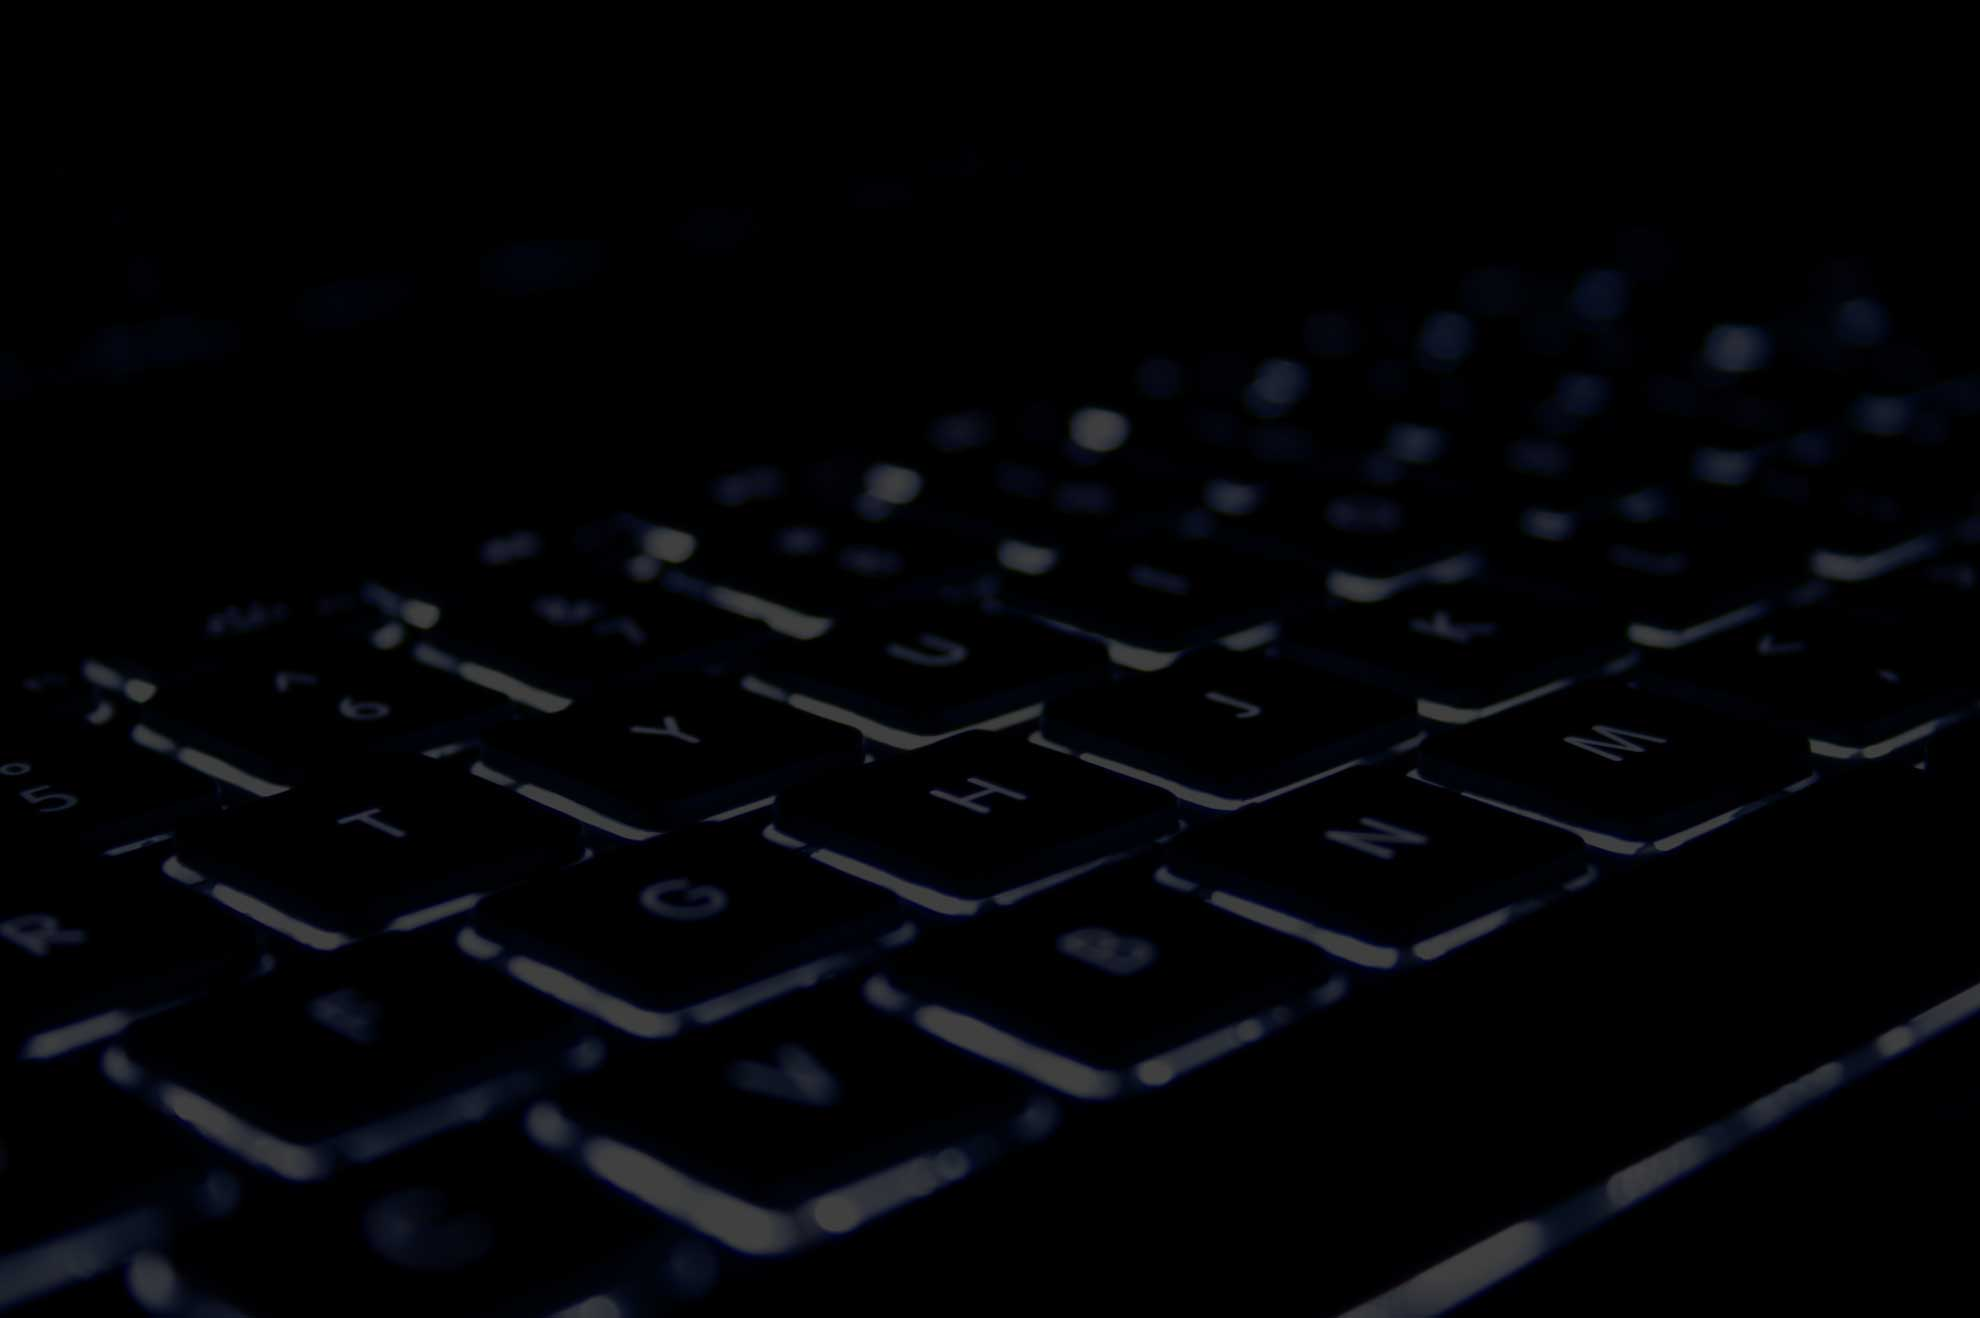
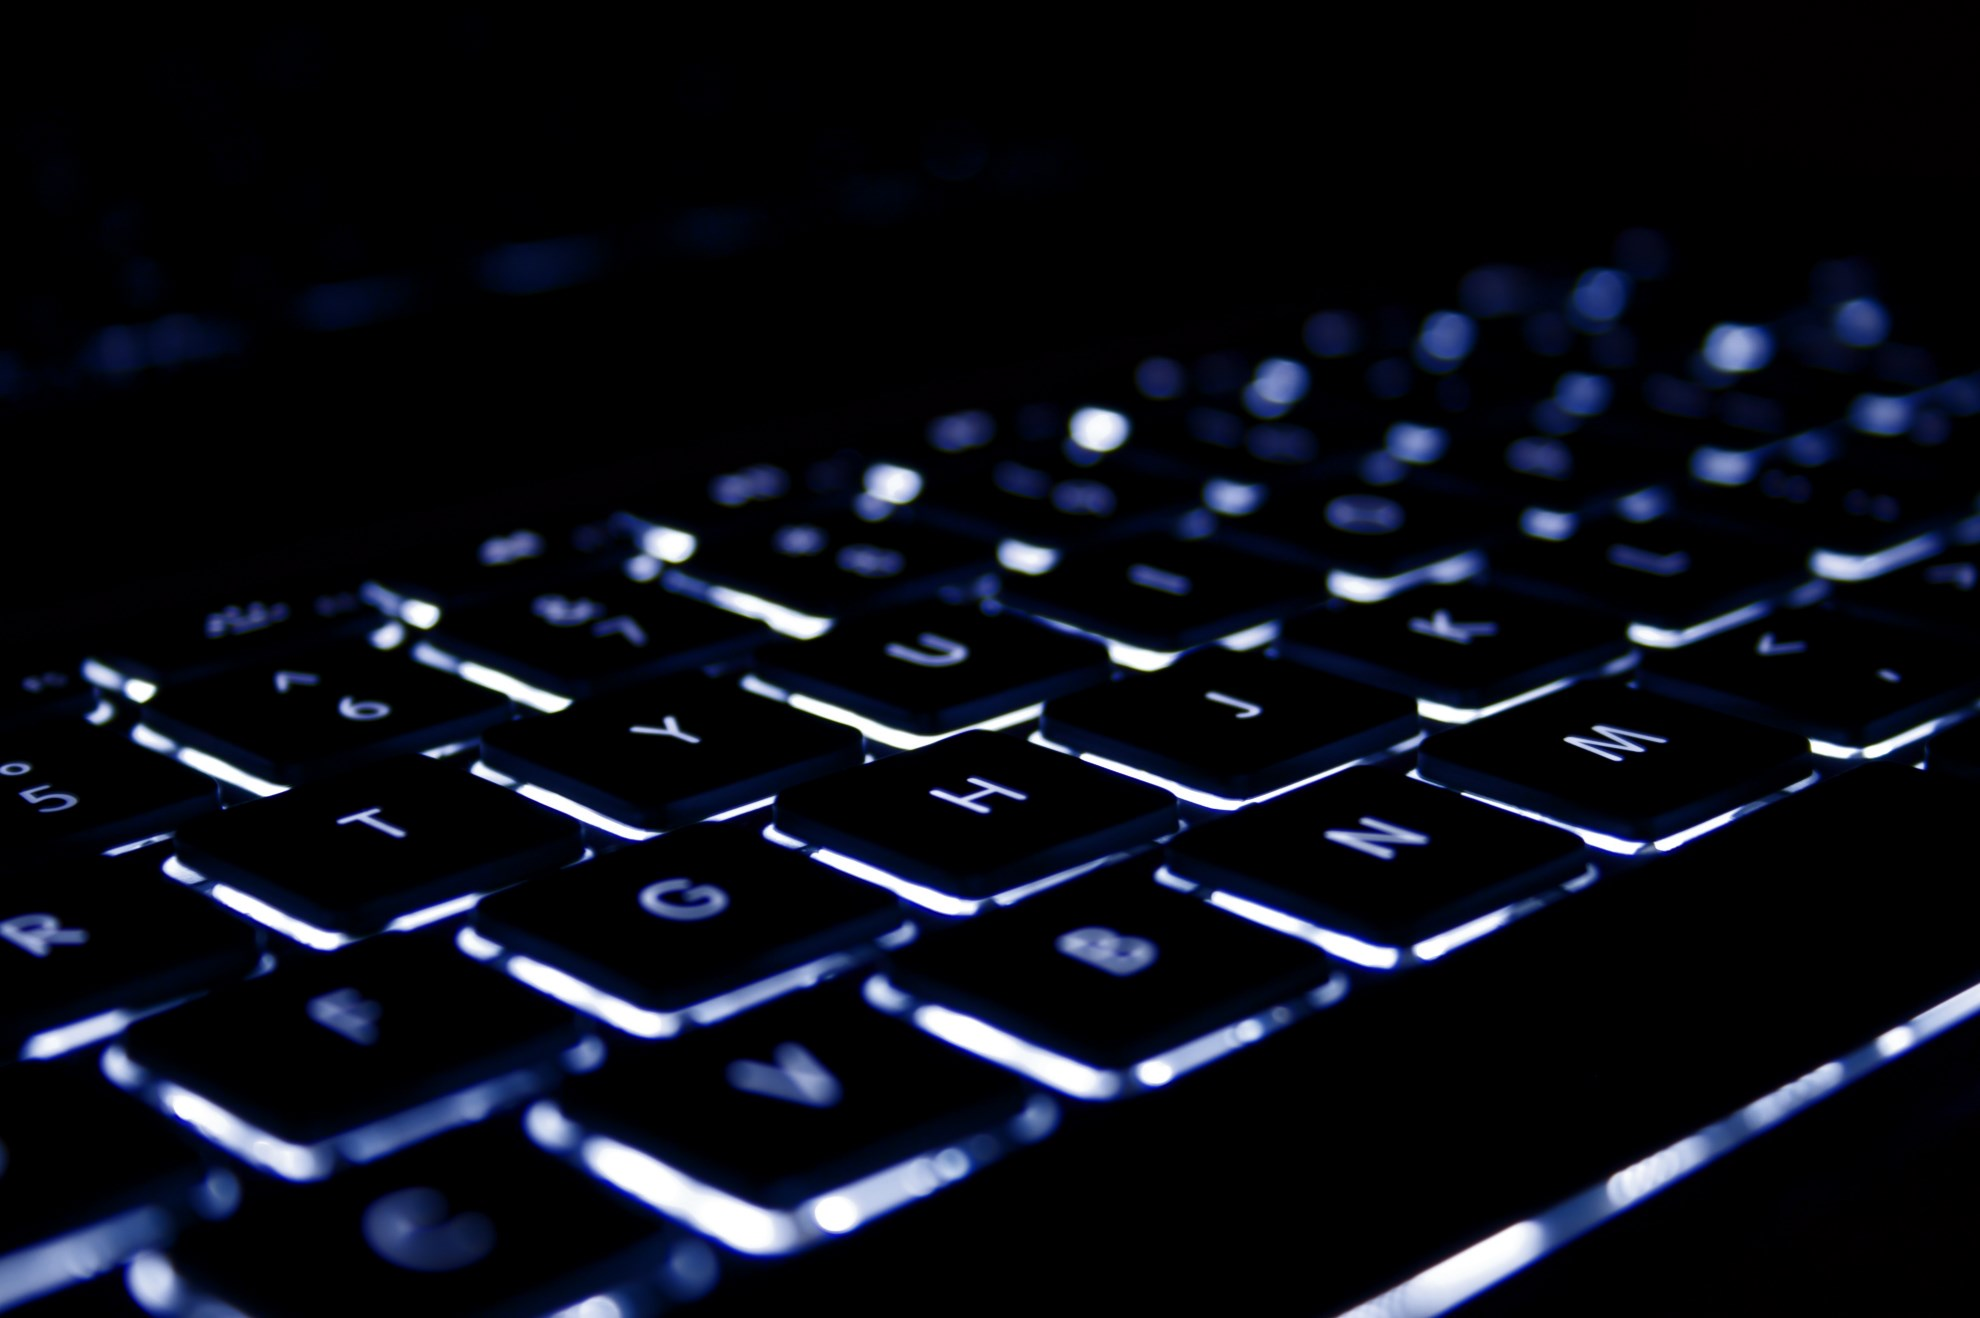
Removed value attribute from contact form and updated header background

diff --git a/src/Components/Contact/Form/Form.js b/src/Components/Contact/Form/Form.js
@@ -10,17 +10,17 @@ class Form extends Component {
                     <fieldset>
                         <div>
                             <label for="contactName">Name <span class="required">*</span></label>
-                            <input type="text" value="" size="35" id="contactName" name="contactName" />
+                            <input type="text" size="35" id="contactName" name="contactName" />
                         </div>
 
                         <div>
                             <label for="contactEmail">Email <span class="required">*</span></label>
-                            <input type="text" value="" size="35" id="contactEmail" name="contactEmail" />
+                            <input type="text" size="35" id="contactEmail" name="contactEmail" />
                         </div>
 
                         <div>
                             <label for="contactSubject">Subject</label>
-                            <input type="text" value="" size="35" id="contactSubject" name="contactSubject" />
+                            <input type="text" size="35" id="contactSubject" name="contactSubject" />
                         </div>
 
                         <div>

diff --git a/src/CSS/layout.css b/src/CSS/layout.css
@@ -34,6 +34,7 @@ header {
    min-height: 500px;
    width: 100%;
    background: #161415 url(../Images/header-keyboard-background.jpg) no-repeat top center;
+   background-attachment: fixed;
    background-size: cover !important;
 	-webkit-background-size: cover !important;
    text-align: center;
@@ -56,7 +57,7 @@ header .banner {
    text-align: center;
 }
 
-header .banner-text { width: 100%; }
+header .banner-text { width: 100%; background-color: rgba(0, 0, 0, .5); padding: 15px;}
 header .banner-text h1 {
    font: 90px/1.1em 'opensans-bold', sans-serif;
    color: #fff;
